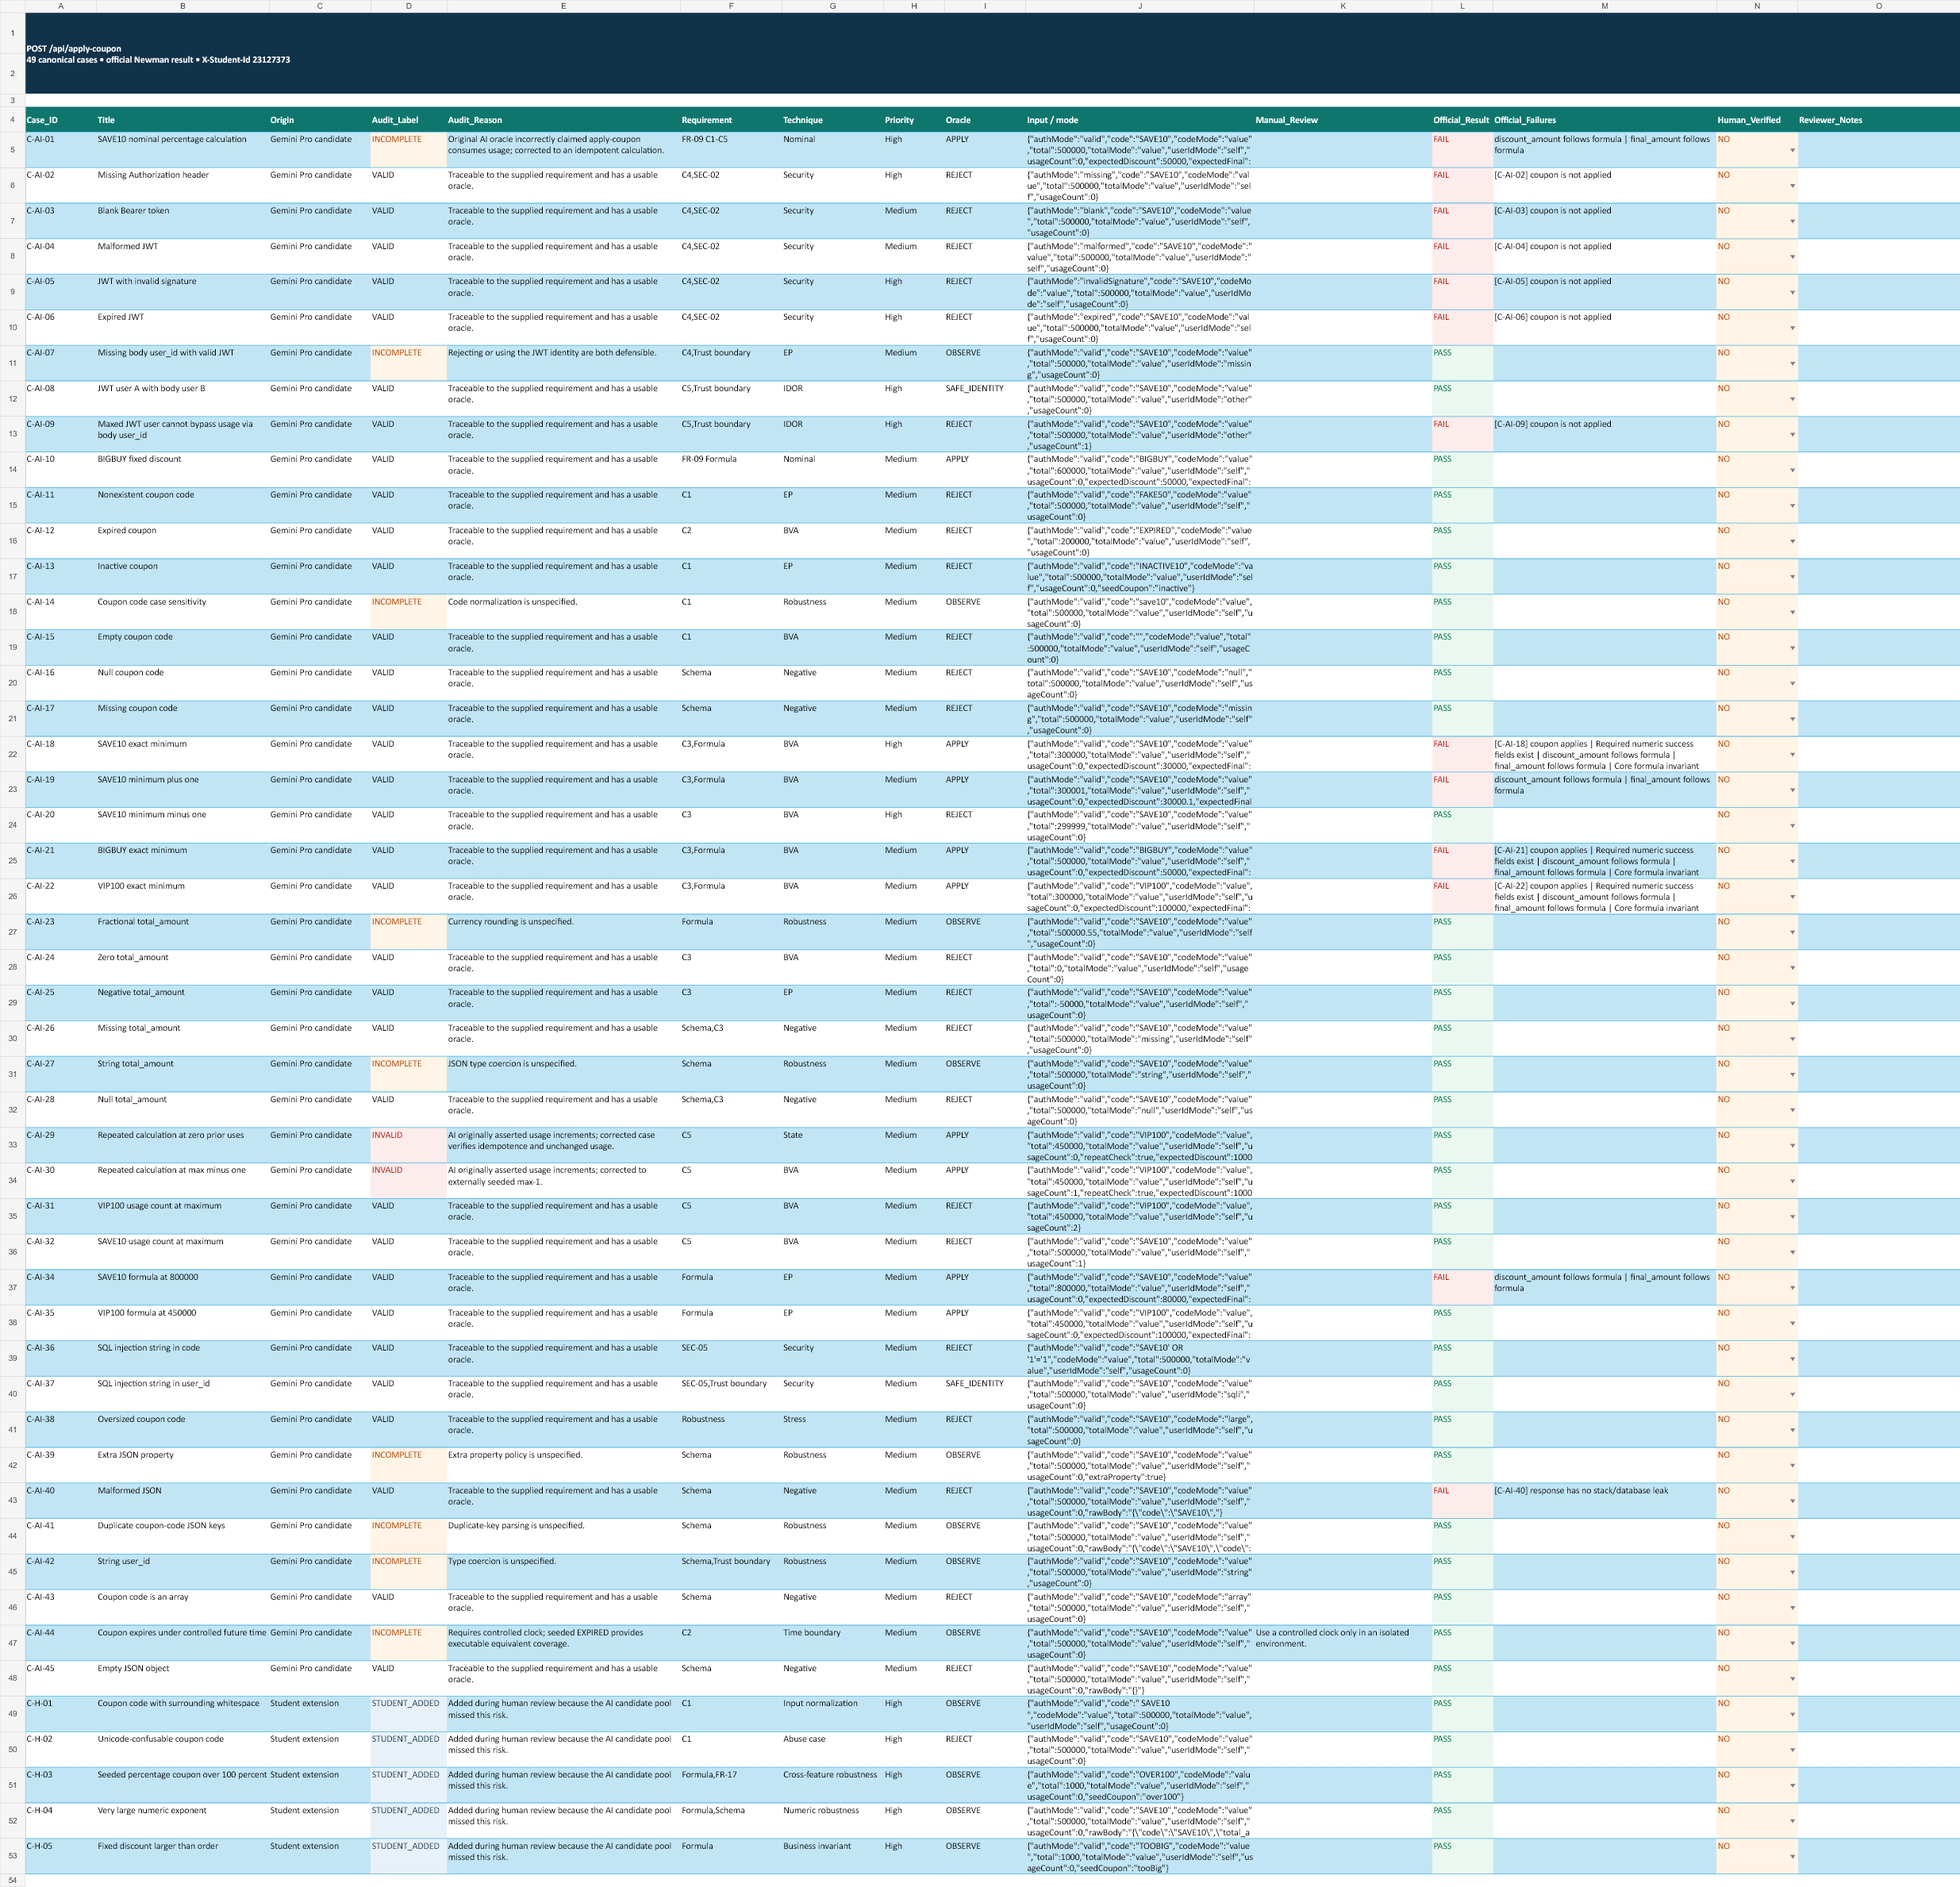
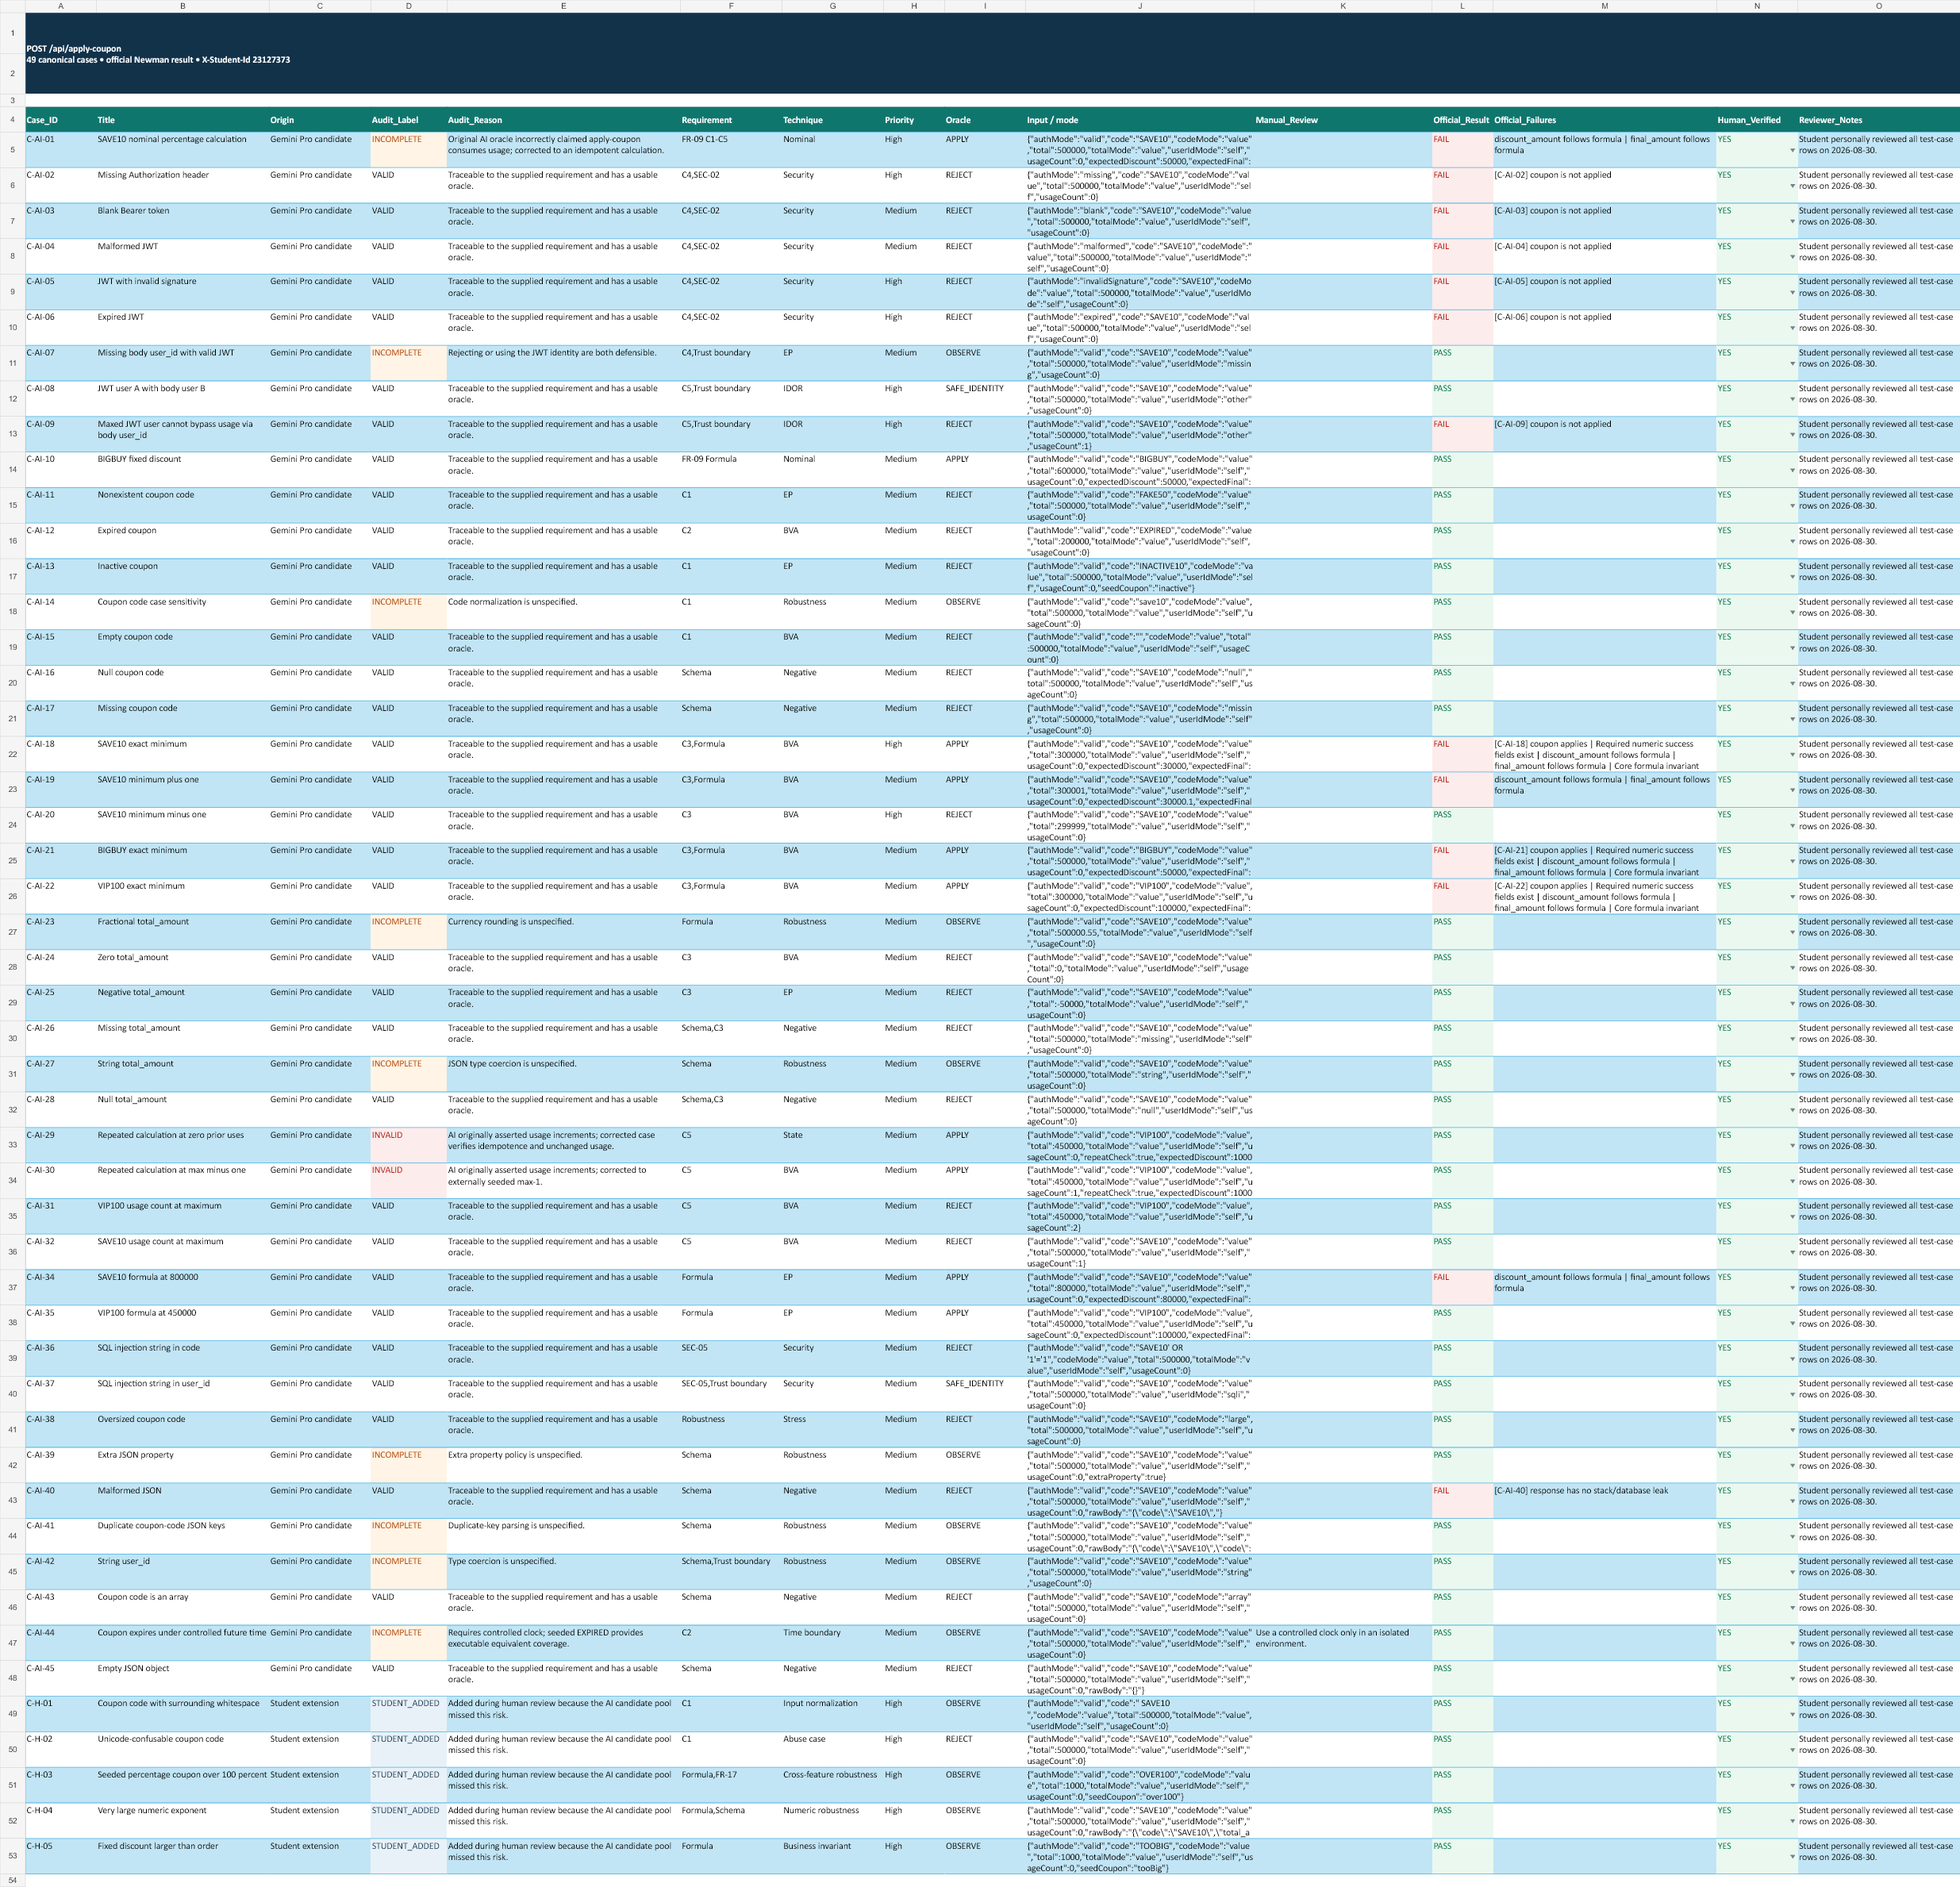
docs: record completed evidence review

Changed region(s): [[0.904, 0.0622, 0.9976, 0.9958]]

diff --git a/README.md b/README.md
@@ -22,7 +22,7 @@ CI evidence: [all-pass demonstration](https://github.com/z3nz3nn/HW06-software-t
 
 ## Current status
 
-The evidence-backed pipeline is complete through the official local Newman execution with `X-Student-Id: 23127373`, ten GitHub Issues, and the required CI all-pass/one-fail demonstration pair. The repository remains private because changing it to Public is the final, separately confirmed action. The optional video is declined and the self-assessed score is 100/100. Personal row review, the real console screenshot, visual Newman/Audit confirmation, self-drawn diagram, ZIP inspection, and Moodle submission remain student-only gates. The synchronized source of truth is [submission-status.json](reports/submission-status.json).
+The evidence-backed pipeline is complete through the official local Newman execution with `X-Student-Id: 23127373`, ten GitHub Issues, and the required CI all-pass/one-fail demonstration pair. The repository remains private because changing it to Public is the final, separately confirmed action. The optional video is declined, the self-assessed score is 100/100, all 158 Excel rows are personally reviewed, and both the real console screenshot and reviewed diagram export are present. Visual Newman/Audit confirmation, ZIP inspection, and Moodle submission remain student-only gates. The synchronized source of truth is [submission-status.json](reports/submission-status.json).
 
 ## Test summary (official local run)
 
@@ -46,8 +46,8 @@ The counts above come from the official run using `X-Student-Id: 23127373`. Fail
 | Public repository link | Repository URL above | Private by instruction; public is the final student step |
 | Postman + Newman HTML | `postman/`, three latest `2026-08-22` HTML reports under `evidence/newman/` | Complete and automatically reconciled |
 | CI/CD report and two runs | `.github/workflows/api-tests.yml`, `reports/ci-cd-report.md`, screenshots 04–07 | Complete and live-checked in GitHub |
-| Excel test cases + summary | `outputs/hw06/HW06_Test_Cases.xlsx` | Complete; personal row sign-off pending |
-| Agent Skill diagram + pseudocode | `docs/agent-skill-diagram.mmd`, `docs/agent-skill-diagram-HUMAN-REVIEW.md`, `docs/agent-skill-pseudocode.md` | Mermaid source and pseudocode complete; student-reviewed PNG export pending |
+| Excel test cases + summary | `outputs/hw06/HW06_Test_Cases.xlsx` | Complete; all 158 rows personally reviewed and signed off |
+| Agent Skill diagram + pseudocode | `docs/agent-skill-diagram.mmd`, `docs/agent-skill-diagram.png`, `docs/agent-skill-pseudocode.md` | Complete; valid PNG export visually checked and editable source retained |
 | Bug report + issue screenshots | `reports/bug-reports.md`, issue index/drafts, screenshots `bug-01`–`bug-10` | Complete; 10 open issues live-checked |
 | AI Critique + Audit, Markdown + PDF | `reports/ai-critique.md`, `reports/ai-audit.md`, `outputs/hw06/HW06_AI_Audit_Report.pdf` | Complete; personal transcript confirmation pending |
 | Git commit log | `reports/git-commit-log.txt` | Exported; at most the final synchronization commit may follow it |
@@ -58,10 +58,10 @@ The counts above come from the official run using `X-Student-Id: 23127373`. Fail
 
 | No. | Criteria | Maximum | Self-assessed | Evidence status |
 | --- | --- | ---: | ---: | --- |
-| 1 | API 1 full pipeline | 30 | 30 | Official pipeline/evidence complete; final personal review/public visibility pending |
-| 2 | API 2 full pipeline | 30 | 30 | Official pipeline/evidence complete; final personal review/public visibility pending |
-| 3 | API 3 full pipeline | 30 | 30 | Official pipeline/evidence complete; final personal review/public visibility pending |
-| 4 | Agent Skill | 10 | 10 | Reusable skill and pseudocode complete; self-drawn diagram pending; video is optional and declined |
+| 1 | API 1 full pipeline | 30 | 30 | Official pipeline/evidence and personal row review complete; final public visibility pending |
+| 2 | API 2 full pipeline | 30 | 30 | Official pipeline/evidence and personal row review complete; final public visibility pending |
+| 3 | API 3 full pipeline | 30 | 30 | Official pipeline/evidence and personal row review complete; final public visibility pending |
+| 4 | Agent Skill | 10 | 10 | Reusable skill, pseudocode, and reviewed diagram export complete; video is optional and declined |
 |  | **Total** | **100** | **100** | Selected by the student; ZIP name: `23127373_HW06_AI_API_100.zip` |
 
 ## Commands

diff --git a/reports/main-report.md b/reports/main-report.md
@@ -51,7 +51,7 @@ The reset suite covers 42 AI candidates plus 6 extensions. Coupon uses 45 genera
 - INCOMPLETE: useful exploratory input, but the specification leaves the expected result ambiguous; assertions are conservative.
 - STUDENT_ADDED: a security, protocol, metamorphic, state, or white-box risk missed by Gemini.
 
-Every row contains its label and reason in the Excel workbook and canonical [case-definitions.mjs](../scripts/case-definitions.mjs). Manual student sign-off remains required before submission; automated generation is not represented as personal review.
+Every row contains its label and reason in the Excel workbook and canonical [case-definitions.mjs](../scripts/case-definitions.mjs). The student explicitly confirmed personal review/sign-off of all 158 rows on 2026-08-30; automated generation itself is not represented as personal review.
 
 ## 6. Postman/Newman implementation
 
@@ -91,11 +91,11 @@ The workflow in [api-tests.yml](../.github/workflows/api-tests.yml) installs dep
 
 ## 9. Agent Skill
 
-The reusable skill under [skills/eshop-api-test-generator](../skills/eshop-api-test-generator/) decomposes specifications, classifies normative versus observational oracles, generates ≥35 candidates, audits them, adds human-risk prompts, and emits canonical rows/Postman data. Pseudocode is provided. An editable Mermaid scaffold is available in [agent-skill-diagram.mmd](../docs/agent-skill-diagram.mmd); the student must review or revise it and export the final `agent-skill-diagram.png` before submission.
+The reusable skill under [skills/eshop-api-test-generator](../skills/eshop-api-test-generator/) decomposes specifications, classifies normative versus observational oracles, generates ≥35 candidates, audits them, adds human-risk prompts, and emits canonical rows/Postman data. Pseudocode, editable Mermaid source, and the student-reviewed final PNG are provided in [docs](../docs/).
 
 ## 10. Limitations and mandatory human review
 
-OTP expiry and true concurrency need controlled time/parallel facilities not exposed by the published API. Identity, the official Newman rerun, ten issue records, CI run-pair evidence, the decision to omit the optional video, and the 100/100 self-assessment are recorded. The student must still personally review/sign off rows, take the non-fabricated console screenshot, spot-check the Newman HTML, confirm the AI audit, draw the diagram, approve the final repository-visibility change, inspect the final ZIP, and submit it on Moodle. The synchronized machine-readable state is [submission-status.json](./submission-status.json); see [manual-checklist.md](./manual-checklist.md) for the human actions.
+OTP expiry and true concurrency need controlled time/parallel facilities not exposed by the published API. Identity, the official Newman rerun, ten issue records, CI run-pair evidence, personal review/sign-off of all 158 Excel rows, the real console screenshot, the reviewed diagram export, the decision to omit the optional video, and the 100/100 self-assessment are recorded. The student must still spot-check the Newman HTML, confirm the AI audit, approve the final repository-visibility change, inspect the final ZIP, and submit it on Moodle. The synchronized machine-readable state is [submission-status.json](./submission-status.json); see [manual-checklist.md](./manual-checklist.md) for the human actions.
 
 ## 11. AI Critique (267 words)
 

diff --git a/reports/manual-checklist.md b/reports/manual-checklist.md
@@ -4,13 +4,13 @@ Do not submit until every unchecked item is completed personally.
 
 - [x] Confirm the student name (**Nguyễn Đình Thái Hưng**) and exact student ID (**23127373**).
 - [x] Rerun in **PowerShell** from `E:\HCMUS\Sem9\Software Testing\HW06\HW06-software-testing`: `npm.cmd run test:api -- --student-id 23127373`.
-- [ ] Personally inspect every Excel row; update the `Human_Verified` column from `NO` to `YES` only after review.
-- [ ] In **PowerShell** at `E:\HCMUS\Sem9\Software Testing\HW06\HW06-software-testing`, run `npm.cmd run test:api:reset -- --student-id 23127373`, capture a real line `[HW06 pre-request] X-Student-Id: 23127373`, and save it as `evidence/screenshots/09-console-x-student-id-23127373.png`. This anti-cheat evidence must not be AI-generated.
+- [x] Personally inspect every Excel row; update the `Human_Verified` column from `NO` to `YES` only after review.
+- [x] In **PowerShell** at `E:\HCMUS\Sem9\Software Testing\HW06\HW06-software-testing`, run `npm.cmd run test:api:reset -- --student-id 23127373`, capture a real line `[HW06 pre-request] X-Student-Id: 23127373`, and save it as `evidence/screenshots/09-console-x-student-id-23127373.png`. This anti-cheat evidence must not be AI-generated.
 - [ ] Open each latest Newman HTML report and spot-check hostname `127.0.0.1:3000`, case IDs, failures, and timestamps. Automated consistency is already verified; this checkbox is the student's visual confirmation.
 - [ ] Approve making the GitHub repository public, then verify no secrets/personal email are committed.
 - [x] Create the ten GitHub Issues; link the real, matching screenshot in each and preserve URLs in `reports/github-issues.json` and `reports/bug-reports.md`.
 - [x] Verify both CI demonstration commits; preserve Actions links and screenshots in `reports/ci-cd-report.md`.
-- [ ] Draw the Agent Skill diagram yourself from the design checklist. Export it as PNG and keep the editable source. Do not use an AI-generated diagram.
+- [x] Review the Agent Skill diagram against the design checklist, export it as a valid PNG, and keep the editable Mermaid source.
 - [ ] Read the prompts/outputs in `reports/ai-audit.md`; confirm they match the Gemini chat and that no private email remains.
 - [x] Optional video decision: **declined by the student; no video will be submitted**.
 - [x] Self-assessed grade selected: **100**. Final ZIP filename: `23127373_HW06_AI_API_100.zip`.
